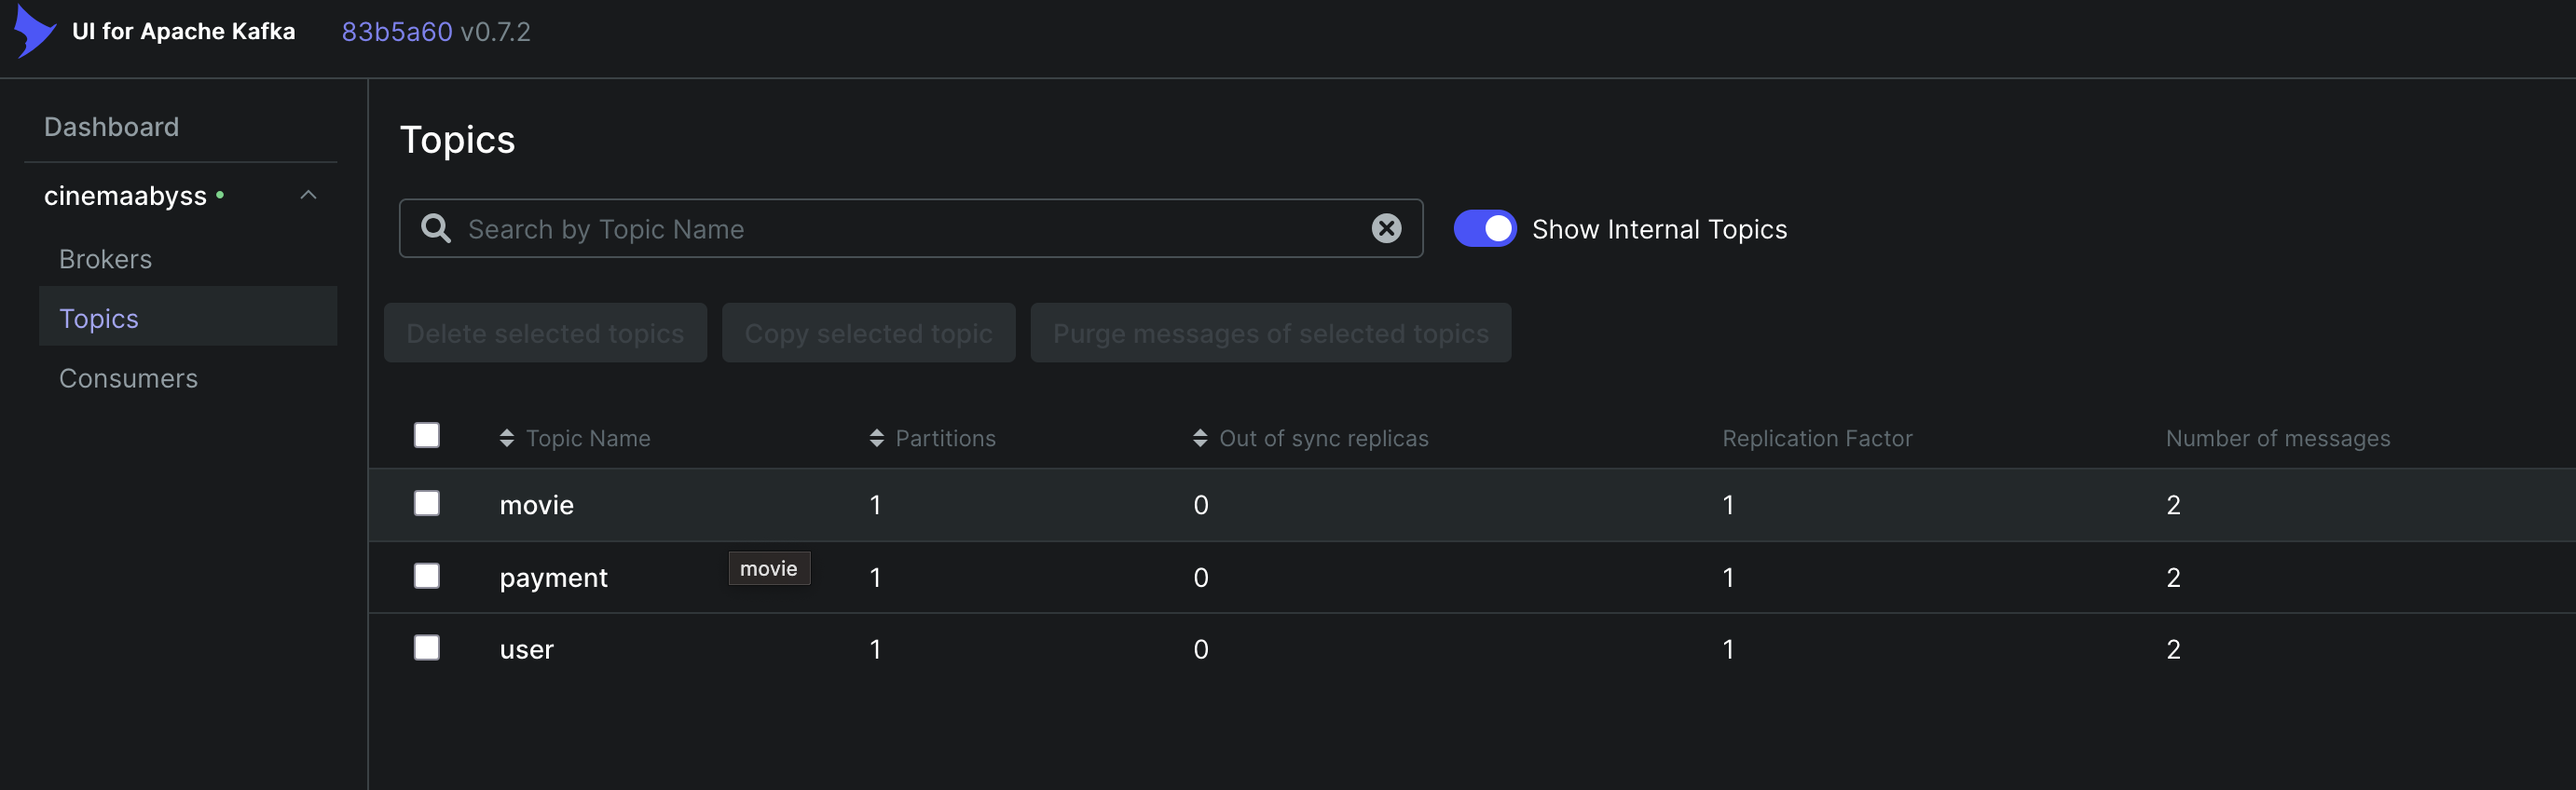
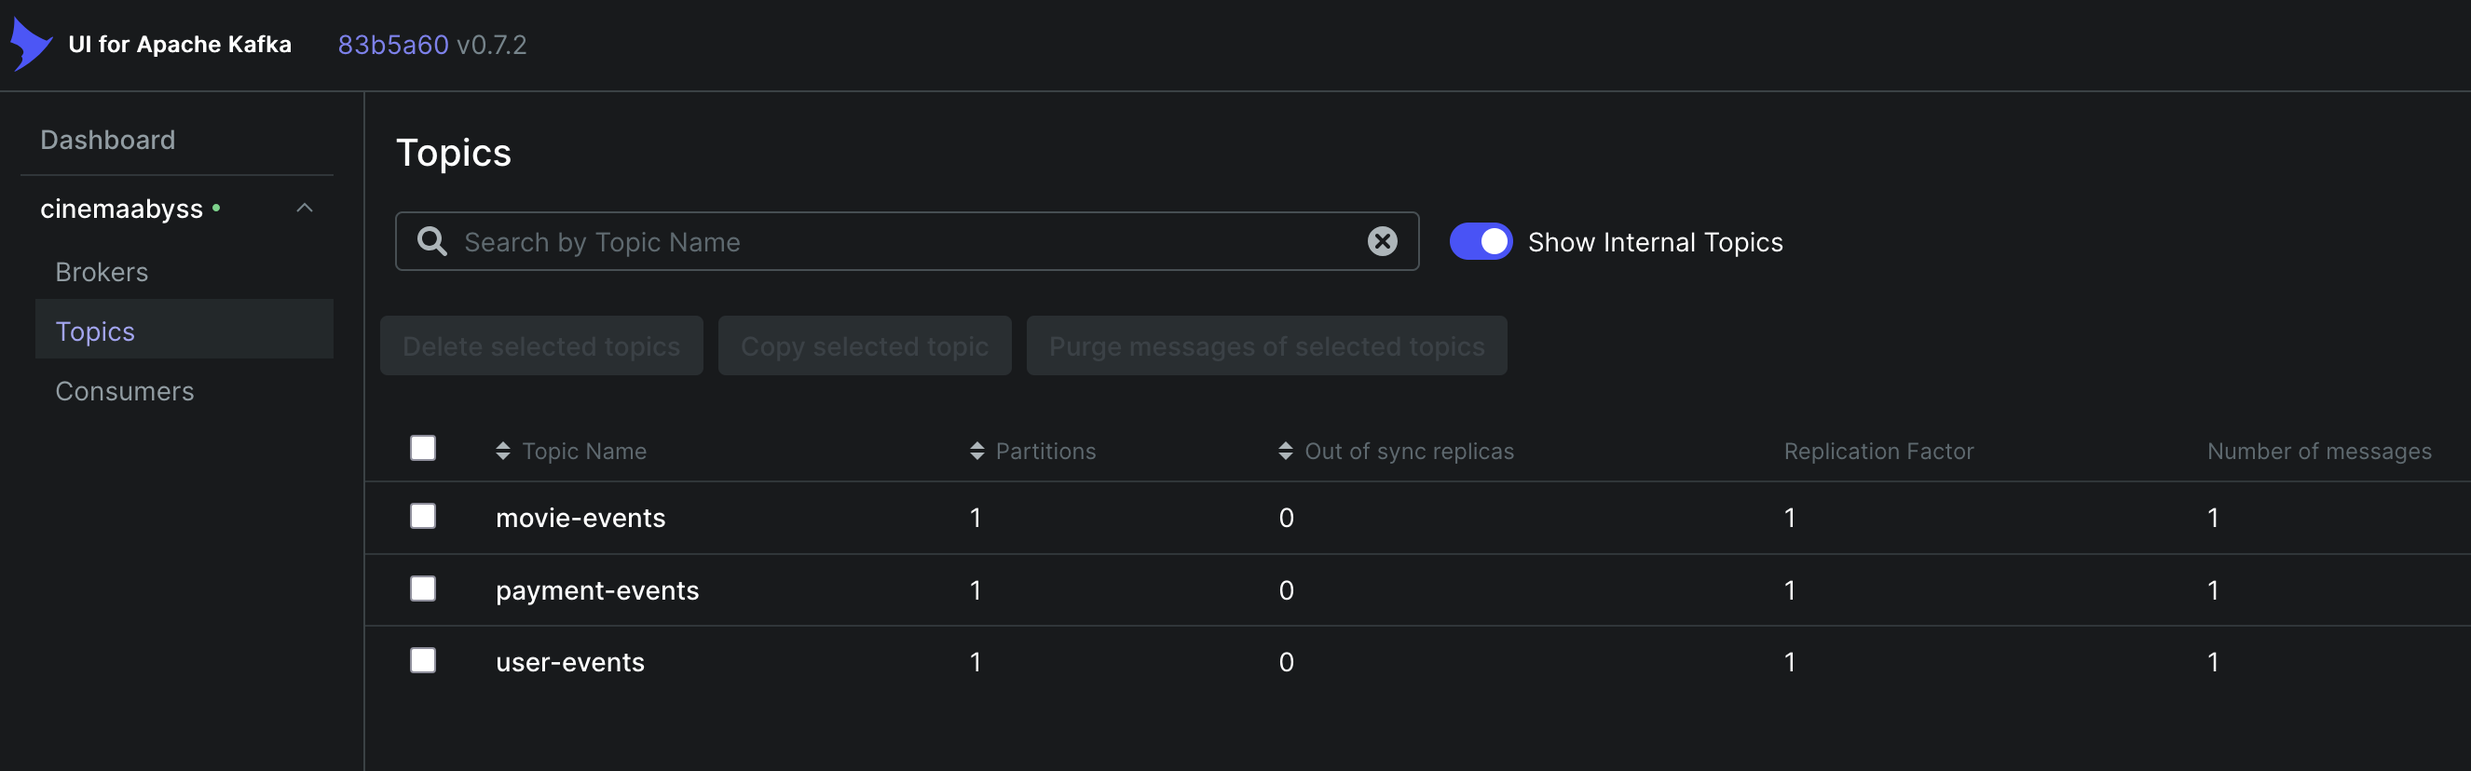
Задание 2. ч2

diff --git a/src/microservices/events/event_handler/__init__.py b/src/microservices/events/event_handler/__init__.py
@@ -22,17 +22,17 @@ async def health():
 
 @app.post("/api/events/movie")
 async def product_movie(request: Request):
-    await produce("movie", json.dumps(await request.json()))
+    await produce("movie-events", json.dumps(await request.json()))
     return JSONResponse({"status": "success"}, status_code=201)
 
 
 @app.post("/api/events/user")
 async def product_user(request: Request):
-    await produce("user", json.dumps(await request.json()))
+    await produce("user-events", json.dumps(await request.json()))
     return JSONResponse({"status": "success"}, status_code=201)
 
 
 @app.post("/api/events/payment")
 async def product_payments(request: Request):
-    await produce("payment", json.dumps(await request.json()))
+    await produce("payment-events", json.dumps(await request.json()))
     return JSONResponse({"status": "success"}, status_code=201)

diff --git a/src/microservices/events/event_handler/consumer.py b/src/microservices/events/event_handler/consumer.py
@@ -5,7 +5,7 @@ from aiokafka import AIOKafkaConsumer
 KAFKA_BROKERS = os.environ.get('KAFKA_BROKERS')
 
 async def consume():
-    consumer = AIOKafkaConsumer('movie', 'user', 'payment', bootstrap_servers=KAFKA_BROKERS)
+    consumer = AIOKafkaConsumer('movie-events', 'user-events', 'payment-events', bootstrap_servers=KAFKA_BROKERS)
     await consumer.start()
 
     try:
